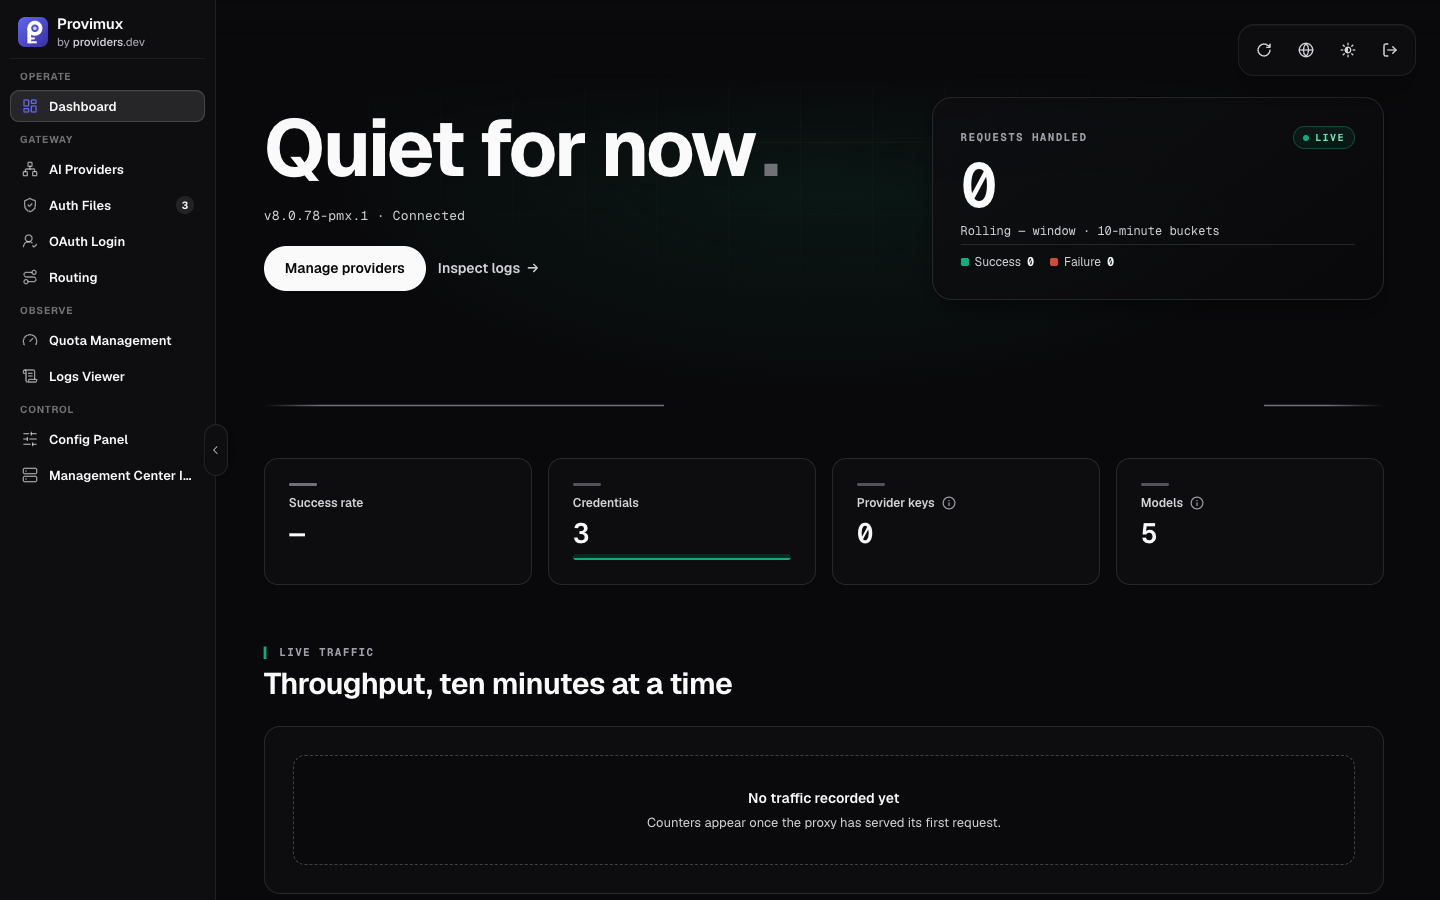
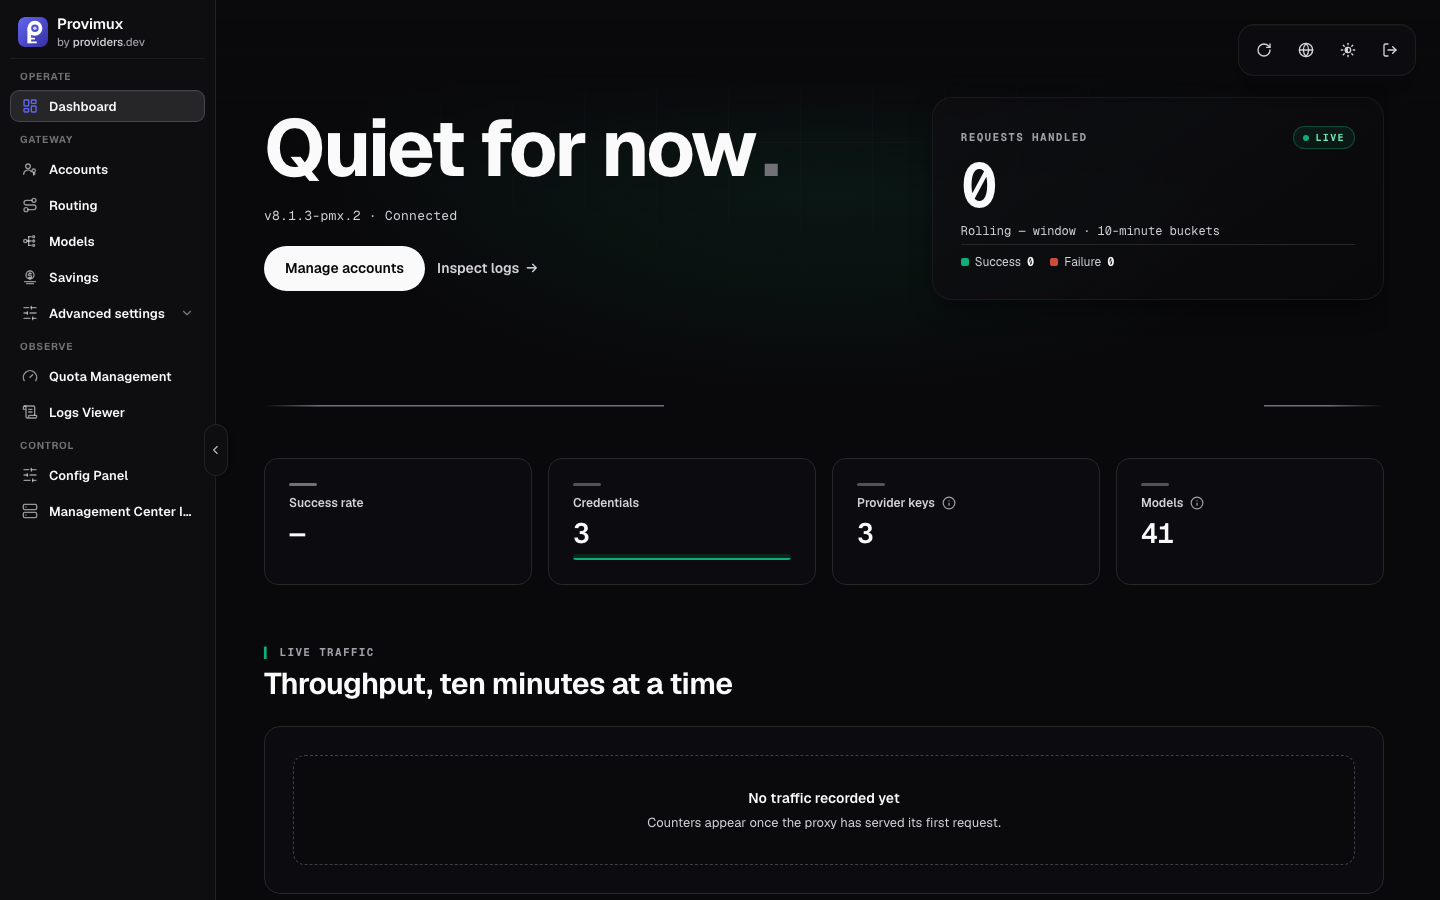
docs(provimux): README: the Dashboard and System pictures of today's console
Both pictures still showed the console before Accounts: AI Providers,
Auth Files and OAuth Login in the sidebar, "Manage providers" on the
Dashboard, and the System page's list of available models, which
v1.29.2-pmx.3 replaced with one line to Models. Retaken from the released
v1.29.2-pmx.6, light and dark, at their sizes, with a stand-in for the
management API answering from tests/provimux/fixtures/models; the alt
texts say what they show.

Provimux-Layer: branding

diff --git a/.github/README.md b/.github/README.md
@@ -30,7 +30,7 @@ repository) &nbsp;·&nbsp; **[providers.dev](https://providers.dev)**
 
 <picture>
   <source media="(prefers-color-scheme: dark)" srcset="assets/dashboard-desktop-dark.png">
-  <img alt="The console's dashboard. The sidebar reads Provimux by providers.dev and lists Dashboard, AI Providers, Auth Files (3), OAuth Login, Routing, Quota Management, Logs Viewer, Config Panel and Management Center Info. The page headline reads Quiet for now, with the server version and Connected below it, a Manage providers button and an Inspect logs link; a card on the right shows 0 requests handled. Below: success rate –, credentials 3, provider keys 0, models 5, and an empty live-traffic chart." src="assets/dashboard-desktop-light.png">
+  <img alt="The console's dashboard. The sidebar reads Provimux by providers.dev and lists Dashboard, Accounts, Routing, Models, Savings, Advanced settings, Quota Management, Logs Viewer, Config Panel and Management Center Info. The page headline reads Quiet for now, with the server version and Connected below it, a Manage accounts button and an Inspect logs link; a card on the right shows 0 requests handled. Below: success rate –, credentials 3, provider keys 3, models 41, and a live-traffic section with no traffic recorded yet." src="assets/dashboard-desktop-light.png">
 </picture>
 
 ## What provimux-ui adds
@@ -142,7 +142,7 @@ pages, settings and requests are unchanged; Provimux's own pages come on top of 
     </picture></td>
     <td width="50%"><picture>
       <source media="(prefers-color-scheme: dark)" srcset="assets/system-desktop-dark.png">
-      <img alt="The Management Center Info page. The Provimux tile, Provimux by providers.dev, the line with the Provimux version and the CLIProxyAPI release it is based on, and Built on CLIProxyAPI and the CLI Proxy API Management Center by router-for-me, MIT licensed. Cards show the management UI version, the server version, build time and connection status. Quick links: Provimux on GitHub, providers.dev, Built on CLIProxyAPI, Built on CLI Proxy API Management Center, CLIProxyAPI documentation. Below, the available models by provider." src="assets/system-desktop-light.png">
+      <img alt="The Management Center Info page. The Provimux tile, Provimux by providers.dev, the line with the Provimux version and the CLIProxyAPI release it is based on, and Built on CLIProxyAPI and the CLI Proxy API Management Center by router-for-me, MIT licensed. Cards show the management UI version, the server version, build time and connection status. Quick links: Provimux on GitHub, providers.dev, Built on CLIProxyAPI, Built on CLI Proxy API Management Center, CLIProxyAPI documentation. Below, one line: every model your accounts serve, with its names, its routes and where it is excluded, is on Models, with an Open Models link." src="assets/system-desktop-light.png">
     </picture></td>
   </tr>
 </table>
